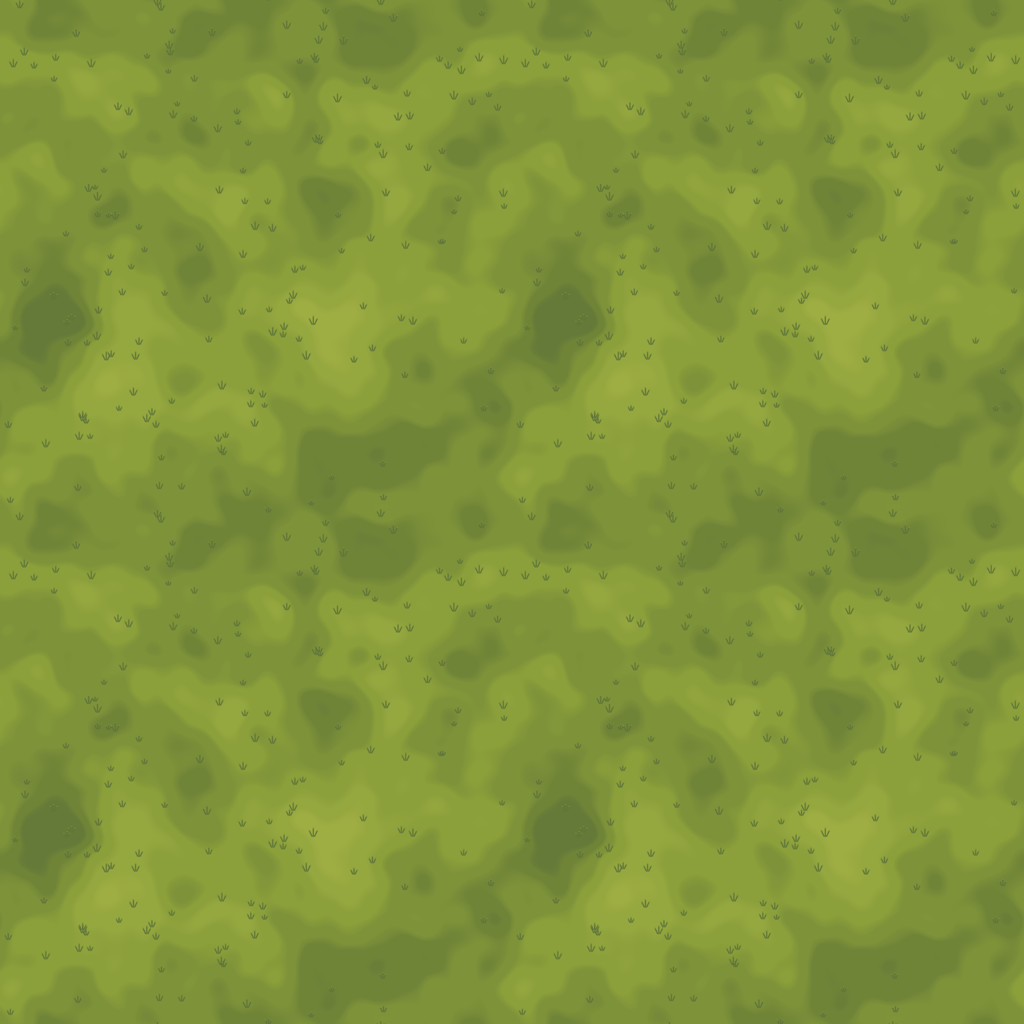
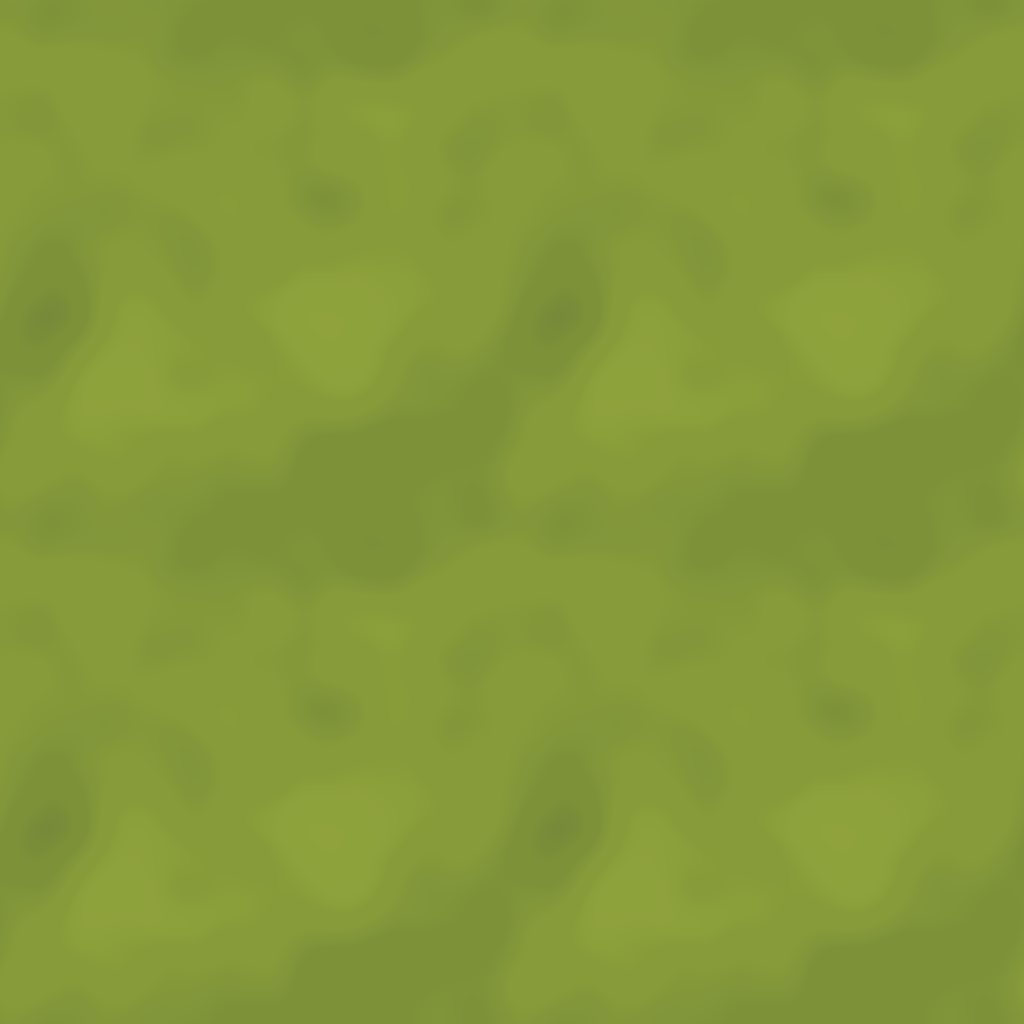
art: calmer grass texture (no flat blade strokes), higher-contrast path stones
- Grass: only large soft patches in a narrow tone range; flat tuft strokes removed (3D tufts do that job);
  flower variant with fewer flowers
- Path stones: wide per-stone tone range, light edge towards the light (was inverted), stronger dark edge,
  darker joints with an occasional bit of grass
- Terrain sheet regenerated

Refs #38

Claude-Session: https://claude.ai/code/session_0184hVCNC2FFvnQ1Ynwf2J2n

diff --git a/ArtSource/Textures/build_ground_textures.py b/ArtSource/Textures/build_ground_textures.py
@@ -102,22 +102,12 @@ def capsule(x0, y0, x1, y1, w):
 
 
 def grass(flowers=False):
-    v = 0.52 + 0.16 * pnoise(170) + 0.07 * pnoise(60)
-    img = ramp("grass", 0.18 + 0.55 * soft_bands(np.clip(v, 0, 1), 5, 0.45))
-    # gestileerde graspluk: 3 korte schuine streepjes, iets donkerder, met een lichte top
-    dark, light = ramp("grass", np.array(0.12)), ramp("grass", np.array(0.85))
-    for _ in range(170):
-        cx, cy = rng.uniform(0, N, 2)
-        s = rng.uniform(7, 13)
-        for k, ang in enumerate((-0.45, 0.0, 0.45)):
-            ln = s * (1.3 if k == 1 else 1.0)
-            bx = (k - 1) * 2.5
-            tx, ty = bx + np.sin(ang) * ln, -np.cos(ang) * ln
-            stamp(img, cx, cy, capsule(bx, 0, tx, ty, 1.8), dark, ln + 4)
-            stamp(img, cx, cy, capsule(tx, ty, tx, ty, 1.3), light, ln + 4)
+    """Rustig gras: alleen grote, zachte vlakken in een smal tintbereik (geen streepjes; die doen de 3D-plukjes)."""
+    v = 0.5 + 0.12 * pnoise(240) + 0.04 * pnoise(110)
+    img = ramp("grass", 0.32 + 0.30 * soft_bands(np.clip(v, 0, 1), 4, 0.55))
     if flowers:
         petal, heart = rgb(R["cloud_snow"][4]), rgb(R["accent_yellow"][2])
-        for _ in range(110):
+        for _ in range(60):
             cx, cy = rng.uniform(0, N, 2)
             r = rng.uniform(3.0, 4.5)
             for a in np.linspace(0, 2 * np.pi, 5, endpoint=False) + rng.uniform(0, 1):
@@ -140,22 +130,23 @@ def dirt():
 
 
 def path_stones():
+    """Keien met duidelijk contrast: elke kei een eigen tint (breed bereik), een lichte rand naar het licht
+    (linksboven), een donkere rand eraf, en donkere voegen met hier en daar wat gras."""
     ids, edge, vec, n = voronoi(64, 0.55)
-    tone = rng.uniform(0.35, 0.75, n)[ids]                 # elke kei een eigen effen tint
+    tone = rng.uniform(0.12, 0.92, n)[ids]
     img = ramp("metal", tone)
-    gap = 7.0
-    # afgeschuinde rand: licht linksboven, donker rechtsonder (licht komt van linksboven)
-    L = np.array([-0.6, -0.8])
+    gap = 8.0
+    L = np.array([-0.6, -0.8])                                    # licht van linksboven (beeld: y omlaag)
     dirn = vec / (np.linalg.norm(vec, axis=-1, keepdims=True) + 1e-6)
-    lam = (dirn @ L)
-    bevel = np.clip(1 - (edge - gap) / 14.0, 0, 1)
-    img = img * (1 + 0.16 * bevel[..., None] * np.clip(-lam, 0, 1)[..., None])     # binnenkant naar het licht
-    img = img * (1 - 0.22 * bevel[..., None] * np.clip(lam, 0, 1)[..., None])
-    # voegen: grond en hier en daar gras
+    lam = dirn @ L                                                 # > 0: rand aan de lichtkant
+    bevel = np.clip(1 - (edge - gap) / 12.0, 0, 1)[..., None]
+    img = img * (1 + 0.32 * bevel * np.clip(lam, 0, 1)[..., None])
+    img = img * (1 - 0.40 * bevel * np.clip(-lam, 0, 1)[..., None])
+    # voegen: donkere grond, soms een sprietje gras
     v = pnoise(90)
-    joint = np.where((v > 0.35)[..., None], ramp("grass", 0.3 + 0.2 * np.clip(v, 0, 1))[..., :],
-                     ramp("cliff", 0.15 + 0.1 * np.clip(v + 1, 0, 2)))
-    m = np.clip((gap - edge) / 1.5, 0, 1)[..., None]
+    joint = np.where((v > 0.9)[..., None], ramp("grass", np.full(v.shape, 0.15)), ramp("cliff", 0.02 + 0.05 * np.clip(v + 1, 0, 2)))
+    joint = joint * 0.78
+    m = np.clip((gap - edge) / 1.2, 0, 1)[..., None]
     return np.clip(img * (1 - m) + joint * m, 0, 255)
 
 
